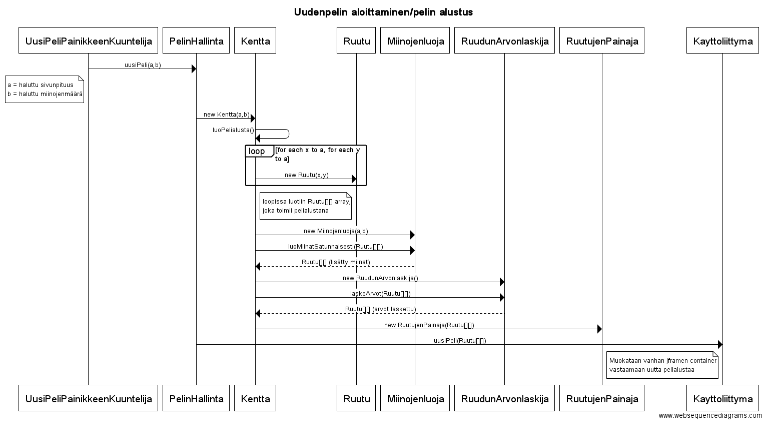
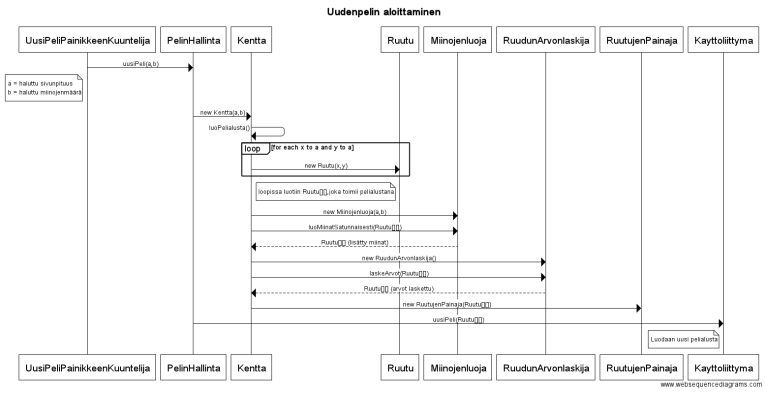
javadoc ja kaavioita

Changed region(s): [[0.0, 0.0611, 1.0, 1.0], [0.3903, 0.0, 1.0, 0.1527], [0.5705, 0.5191, 0.6005, 0.5496]]

diff --git a/Miinaharava/src/main/java/fi/miinaharava/logiikka/PelinHallinta.java b/Miinaharava/src/main/java/fi/miinaharava/logiikka/PelinHallinta.java
@@ -23,6 +23,8 @@ public class PelinHallinta {
 
     /**
      * Metodi luo käyttöliittymän ja aloittaa pelin.
+     * 
+     * @see Kayttoliittyma#run() 
      */
     public void aloitaPeli() {
         kayttoliittyma = new Kayttoliittyma(kentta);
@@ -35,6 +37,8 @@ public class PelinHallinta {
      *
      * @param sivunpituus Käyttäjän haluama sivunpituus
      * @param miinojenmaara Käyttäjän haluama miinojen määrä
+     * 
+     * @see Kayttoliittyma#uusiPeli(fi.miinaharava.logiikka.Kentta) 
      */
     public static void uusiPeli(int sivunpituus, int miinojenmaara) {
         kentta = new Kentta(sivunpituus, miinojenmaara);
@@ -46,6 +50,8 @@ public class PelinHallinta {
      * Metodi kertoo kayttoliittymalle häviöstä.
      * 
      * null tarkistus on RuutujenPainajaTest luokkaa varten
+     * 
+     * @see Kayttoliittyma#havisit() 
      */
     public static void havisit() {
         if (kayttoliittyma != null) {
@@ -57,6 +63,8 @@ public class PelinHallinta {
      * Metodi kertoo kayttoliittymalle voitosta.
      * 
      * null tarkistus on RuutujenPainajaTest luokkaa varten
+     * 
+     * @see Kayttoliittyma#voitit() 
      */
     public static void voitit() {
         if (kayttoliittyma != null) {

diff --git a/Miinaharava/src/main/java/fi/miinaharava/logiikka/RuutujenPainaja.java b/Miinaharava/src/main/java/fi/miinaharava/logiikka/RuutujenPainaja.java
@@ -27,6 +27,8 @@ public class RuutujenPainaja {
      * seuraavaa metodia.
      * 
      * @param ruutu Ruutu, jota halutaan painaa
+     * 
+     * @see Ruutu#paina() 
      */
     public void paina(Ruutu ruutu) {
         ruutu.paina();
@@ -34,6 +36,7 @@ public class RuutujenPainaja {
         if (ruutu.onkoMiina()) {
             painaKaikkia();
             PelinHallinta.havisit();
+            return;
         }
         
         if (ruutu.getArvo() == 0) {
@@ -52,6 +55,8 @@ public class RuutujenPainaja {
      * painetulle ruudulle.
      * 
      * @param ruutu Ruutu, jonka ympärillä olevat ruudut halutaan painaa
+     * 
+     * @see RuutujenEtsija#etsiVierekkaisetRuudut(fi.miinaharava.logiikka.Ruutu) 
      */
     public void painaKaikkiaYmparillaOlevia(Ruutu ruutu) {
         ArrayList<Ruutu> vierekkaiset = etsija.etsiVierekkaisetRuudut(ruutu);

diff --git a/Miinaharava/src/main/java/fi/miinaharava/logiikka/Kentta.java b/Miinaharava/src/main/java/fi/miinaharava/logiikka/Kentta.java
@@ -33,7 +33,11 @@ public class Kentta {
     }
     
     /**
-     * Metodi luo Ruutu olioille tehtyyn taulukkoon Ruutu olioit.
+     * Metodi luo Ruutu olioille tehtyyn taulukkoon Ruutu olioit
+     * ja muut tarvittavat oliot.
+     * 
+     * @see Miinojenluoja#luoMiinatSatunnaisesti(fi.miinaharava.logiikka.Ruutu[][]) 
+     * @see RuudunArvonlaskija#laskeArvot(fi.miinaharava.logiikka.Ruutu[][]) 
      */
     private void luoPelialusta() {
         for (int y = 0; y < sivunpituus; y++) {
@@ -61,6 +65,8 @@ public class Kentta {
      * Metodi kutsuu VierekkaisteRuutujenPainajan metodia paina.
      *
      * @param ruutu TapahtumaKuuntelijalta saatu Ruutu, jota painettiin
+     * 
+     * @see RuutujenPainaja#paina(fi.miinaharava.logiikka.Ruutu) 
      */
     public void paina(Ruutu ruutu) {
         painaja.paina(ruutu);

diff --git a/Miinaharava/src/main/java/fi/miinaharava/logiikka/Ruutu.java b/Miinaharava/src/main/java/fi/miinaharava/logiikka/Ruutu.java
@@ -48,8 +48,10 @@ public class Ruutu {
             painike.setFont(new Font("", Font.PLAIN, 30));
             painike.setMargin(new Insets(12, 0, 0, 0));
             painike.setBackground(Color.red);
+            
         } else if (arvo == 0) {
             painike.setText("");
+            
         } else {
             painike.setText("" + arvo);
             painike.setMargin(new Insets(0, 0, 0, 0));

diff --git a/Miinaharava/src/main/java/fi/miinaharava/logiikka/Miinojenluoja.java b/Miinaharava/src/main/java/fi/miinaharava/logiikka/Miinojenluoja.java
@@ -34,6 +34,8 @@ public class Miinojenluoja {
      * @param ruudukko  Kentta luokan luoma ruudukko
      * 
      * @return taulukko, jossa Ruutuja on muunnettu miinoiksi haluttu määrä
+     * 
+     * @see Ruutu#asetaMiina() 
      */
     public Ruutu[][] luoMiinatSatunnaisesti(Ruutu[][] ruudukko) {
         this.ruudukko = ruudukko;

diff --git a/Miinaharava/src/main/java/fi/miinaharava/logiikka/RuudunArvonlaskija.java b/Miinaharava/src/main/java/fi/miinaharava/logiikka/RuudunArvonlaskija.java
@@ -7,12 +7,6 @@ package fi.miinaharava.logiikka;
 public class RuudunArvonlaskija {
 
     private Ruutu[][] ruudukko;
-    
-    /**
-     * Konstruktori luo luokan.
-     */
-    public RuudunArvonlaskija() {
-    }
 
     /**
      * Metodi laskee parametrina annetun ruuduista koostuvan taulun jokaiselle

diff --git a/Miinaharava/src/main/java/fi/miinaharava/kayttoliittyma/Kayttoliittyma.java b/Miinaharava/src/main/java/fi/miinaharava/kayttoliittyma/Kayttoliittyma.java
@@ -150,5 +150,4 @@ public class Kayttoliittyma implements Runnable {
         t.stop();
         JOptionPane.showMessageDialog(frame, "Voitit!" + "\n" + "Aikasi: " + kello.getText() + "s");
     }
-
 }

diff --git a/dokumentaatio/tuntikirjanpito.md b/dokumentaatio/tuntikirjanpito.md
@@ -16,4 +16,6 @@ Päivä | Tunnit | Kuvaus
 22.02.2017 | 3h | Koodia
 23.02.2017 | 2h | Demotilaisuuteen koodin valmistamista
 24.02.2017 | 2h | javadoc ja dl6
-27.02.2017 | 3h | Pelinloppuminen, sekuntikello, testejä
+27.02.2017 | 4h | Pelinloppuminen, sekuntikello, testejä
+03.03.2017 | 2h | Parin bugin korjaus
+04.03.2017 | 2h | Javadocin viimeistelyä
